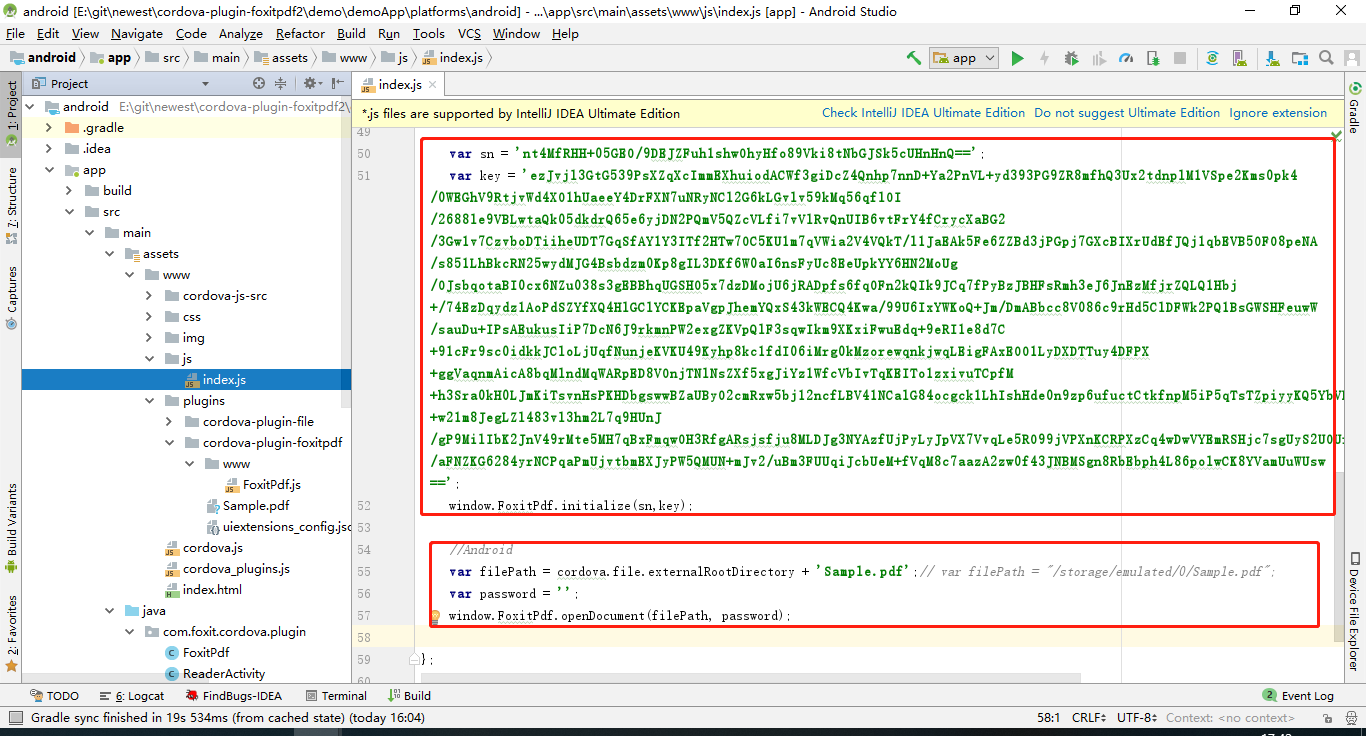
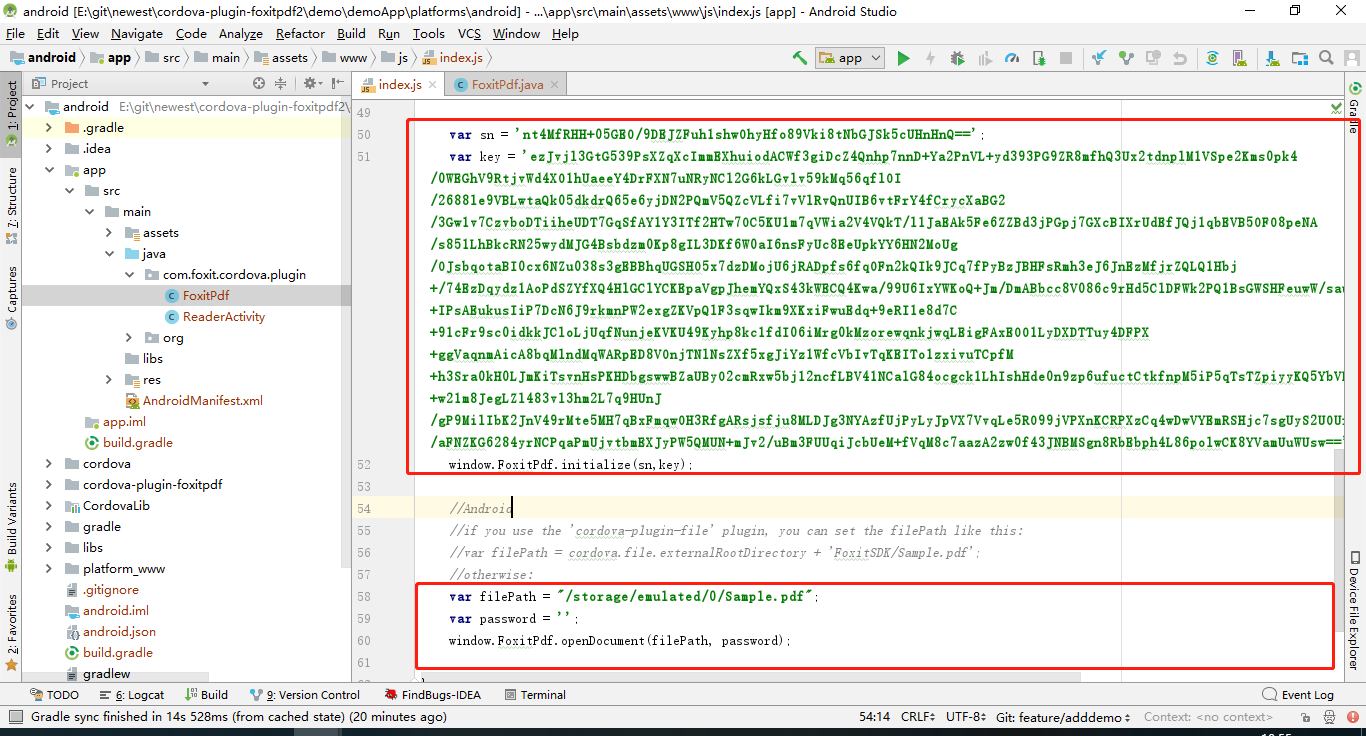
Update some code.

Changed region(s): [[0.0, 0.0938, 1.0, 1.0], [0.5842, 0.0625, 0.8609, 0.0938]]

diff --git a/demo/demoApp/www/js/index.js b/demo/demoApp/www/js/index.js
@@ -69,8 +69,11 @@ window.preview = function(){
                                      });
 
     //Android
-//    var filePath = cordova.file.externalRootDirectory + 'FoxitSDK/Sample.pdf';// var filePath = "/storage/emulated/0/Sample.pdf";
-//    var password = '';
-//    window.FoxitPdf.openDocument(filePath, password);
+    //if you use the 'cordova-plugin-file' plugin, you can set the filePath like this: 
+    //var filePath = cordova.file.externalRootDirectory + 'FoxitSDK/Sample.pdf';
+    //otherwise:
+    var filePath = "/storage/emulated/0/Sample.pdf";
+    var password = '';
+    window.FoxitPdf.openDocument(filePath, password);
 
 };
